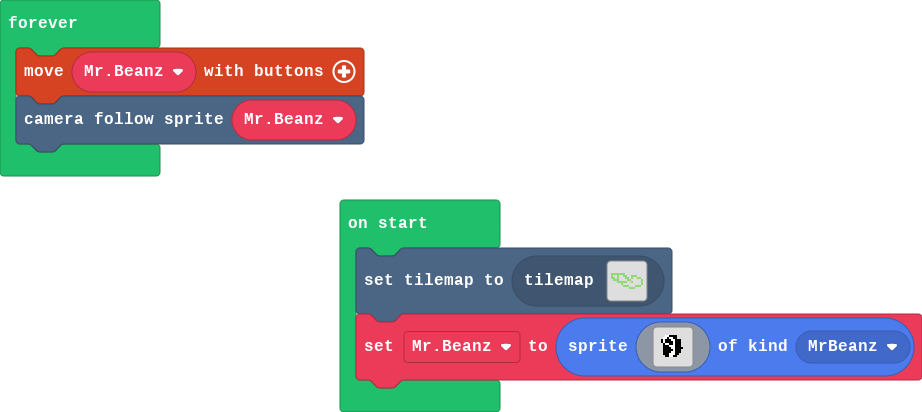
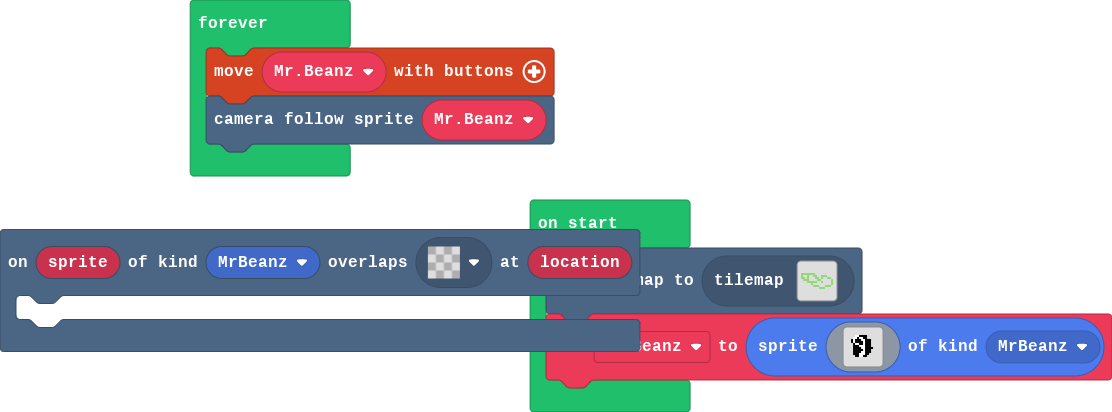
Update main.blocks, main.ts

diff --git a/main.ts b/main.ts
@@ -1,6 +1,9 @@
 namespace SpriteKind {
     export const MrBeanz = SpriteKind.create()
 }
+scene.onOverlapTile(SpriteKind.MrBeanz, assets.tile`transparency16`, function (sprite, location) {
+	
+})
 tiles.setCurrentTilemap(tilemap`level2`)
 let MrBeanz = sprites.create(img`
     . . . . . . . . . . . . . . . . 
